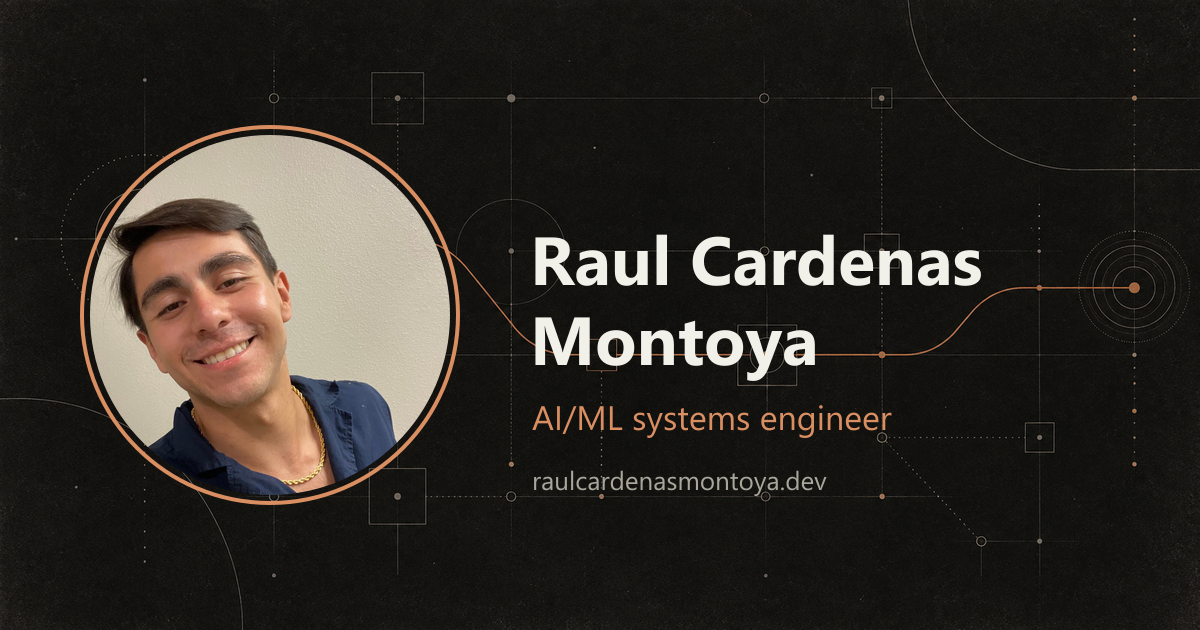
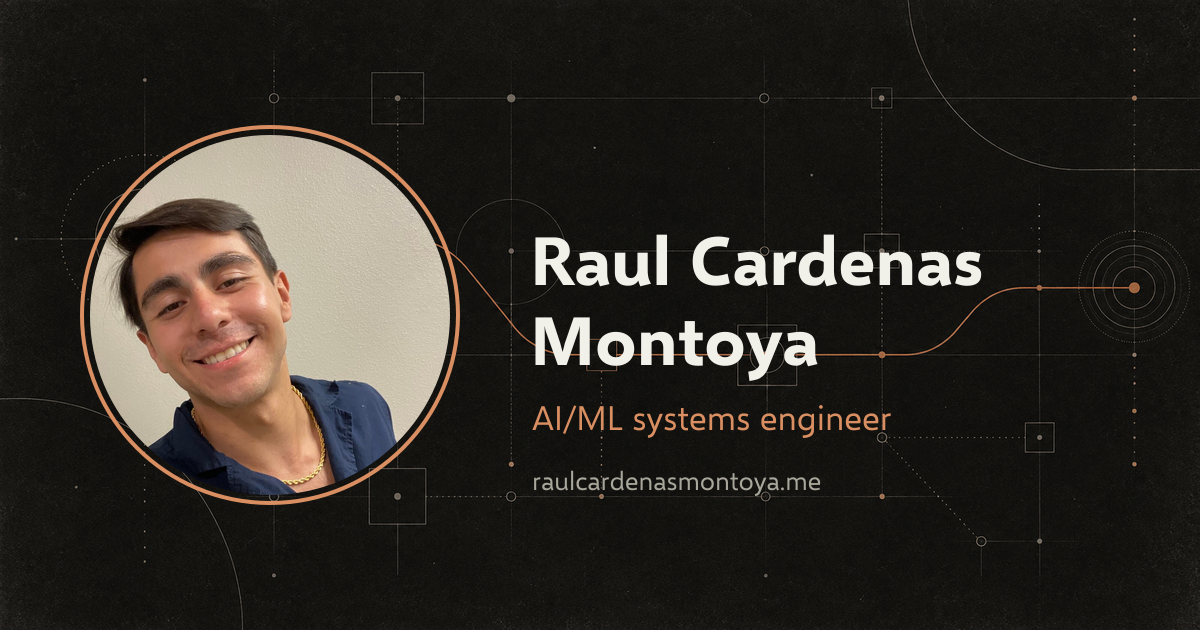
fix: use raulcardenasmontoya.me as the site domain

diff --git a/README.md b/README.md
@@ -1,6 +1,6 @@
 # shipoftheseus.dev
 
-A static Astro + TypeScript portfolio for AI/ML systems engineering. It deploys to GitHub Pages at `raulcardenasmontoya.dev` from `main`.
+A static Astro + TypeScript portfolio for AI/ML systems engineering. It deploys to GitHub Pages at `raulcardenasmontoya.me` from `main`.
 
 ## Local development
 
@@ -50,4 +50,4 @@ Codecov/Qlty setup, and fork-PR behavior.
 
 `.github/workflows/deploy.yml` runs on every push to `main`: `npm ci`, `npm run validate`, `npm run build` (Astro, output `dist`), then `actions/upload-pages-artifact` and `actions/deploy-pages` (`pages: write`, `id-token: write`, `github-pages` environment). `npm run build` needs only Node 20.19+ or 22.12+ because the browser WASM packages are committed under `public/wasm/`; the Rust toolchain is installed only for `validate`.
 
-One-time repository settings: Settings → Pages → Source: **GitHub Actions**; Settings → Pages → Custom domain: `raulcardenasmontoya.dev` (save it; `public/CNAME` alone does not set this for Actions publishing); once DNS resolves and the certificate is issued, turn on **Enforce HTTPS**. `public/CNAME` keeps the custom domain pinned in the built site. Manual runs only deploy from `main`.
+One-time repository settings: Settings → Pages → Source: **GitHub Actions**; Settings → Pages → Custom domain: `raulcardenasmontoya.me` (save it; `public/CNAME` alone does not set this for Actions publishing); once DNS resolves and the certificate is issued, turn on **Enforce HTTPS**. `public/CNAME` keeps the custom domain pinned in the built site. Manual runs only deploy from `main`.

diff --git a/CONTENT.md b/CONTENT.md
@@ -24,6 +24,6 @@ Recorded `corpus-ipc` protocol fixtures for `/protocol/` live in `public/protoco
 
 ## Domain safety
 
-The canonical domain is `raulcardenasmontoya.dev` (registrar and DNS at Namecheap, served by GitHub Pages). `shipoftheseus.dev` stays on Cloudflare and may 301 to it from the apex and `www` only. `hooks.shipoftheseus.dev` is explicitly out of scope: it remains the active PR-babysit GitHub-webhook Cloudflare Tunnel endpoint and must not be redirected, deleted, or otherwise changed for this site.
+The canonical domain is `raulcardenasmontoya.me` (registrar and DNS at Namecheap, served by GitHub Pages). `shipoftheseus.dev` stays on Cloudflare and may 301 to it from the apex and `www` only. `hooks.shipoftheseus.dev` is explicitly out of scope: it remains the active PR-babysit GitHub-webhook Cloudflare Tunnel endpoint and must not be redirected, deleted, or otherwise changed for this site.
 
 DNS and any `shipoftheseus.dev` redirect live outside this repository (Namecheap and Cloudflare).

diff --git a/CLAUDE.md b/CLAUDE.md
@@ -36,7 +36,7 @@ steps need `CODECOV_TOKEN`, `QLTY_COVERAGE_TOKEN` or OIDC and are not local gate
 
 ## Invariants and non-goals
 
-- The site deploys to GitHub Pages; `raulcardenasmontoya.dev` is canonical. Never touch `hooks.shipoftheseus.dev`.
+- The site deploys to GitHub Pages; `raulcardenasmontoya.me` is canonical. Never touch `hooks.shipoftheseus.dev`.
 - Do not invent benchmark numbers; leave the native-evidence catalog empty without a measured capture (`AGENTS.md`, `CONTENT.md`).
 - Do not hand-edit `public/wasm/**`; `test:wasm-web-pkg` fails on drift from the locked toolchain.
 - The browser dependency policy in `scripts/verify-browser-dependencies.mjs` is enforced by `validate:rust`; do not loosen it to pass.
